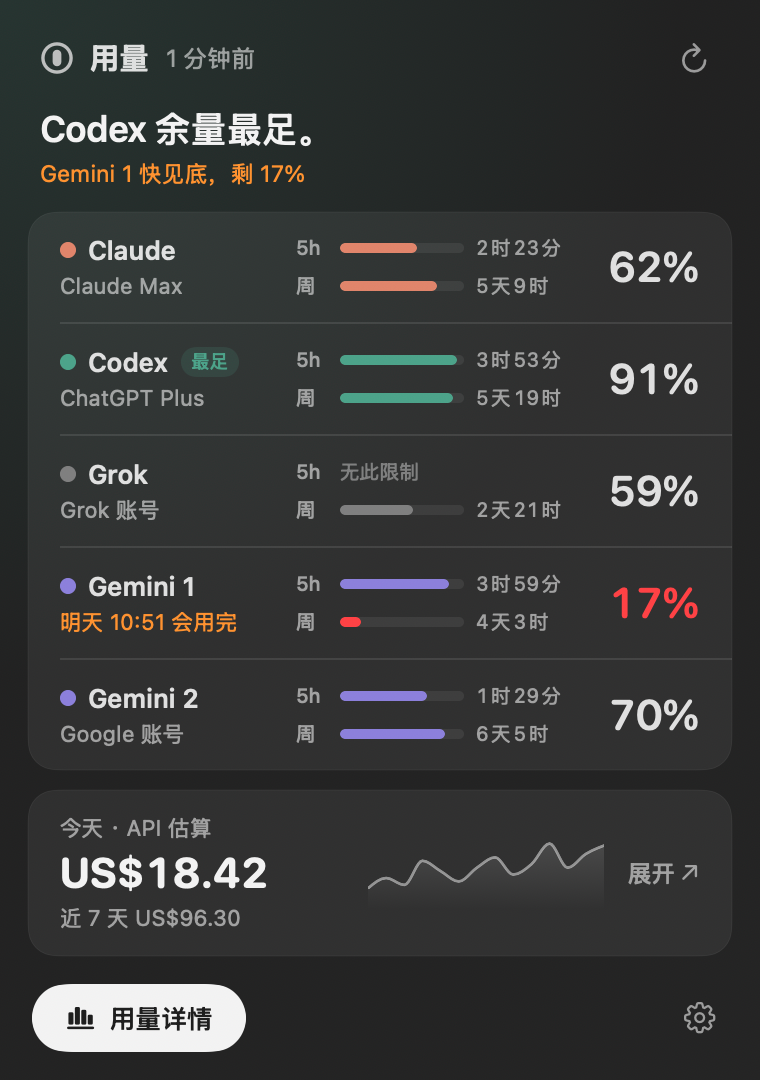
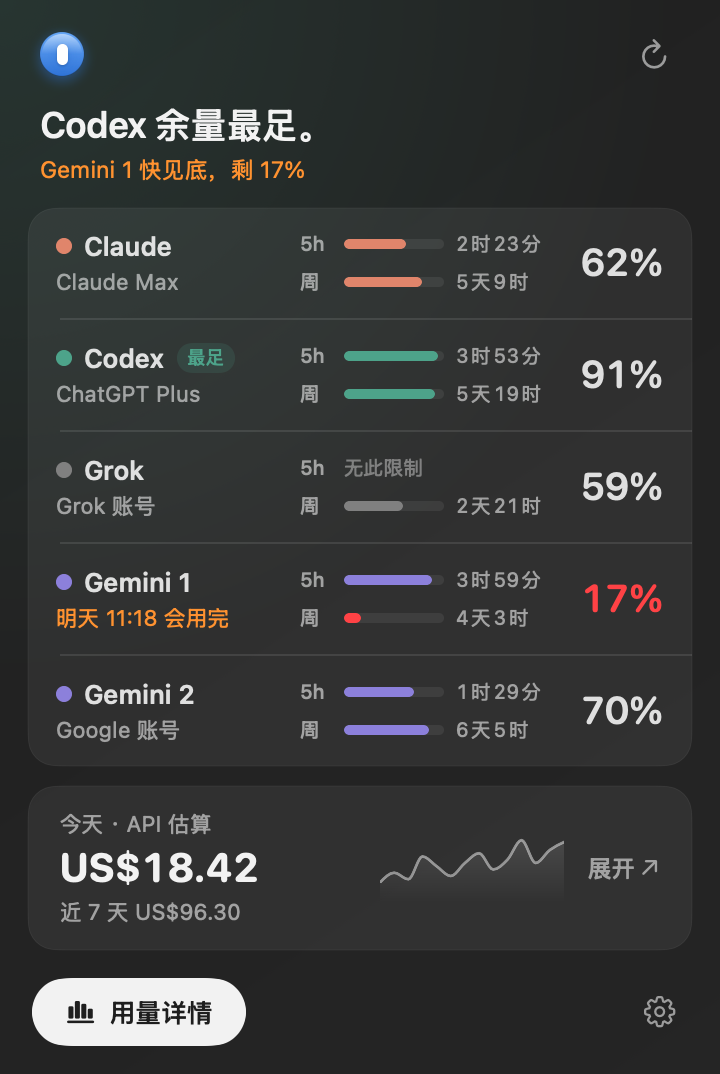
点左上角图标切换极简/正常（正常时图标立体）；花费可切成 Token；面板每行可拖动排序

diff --git a/Sources/UsageBar.swift b/Sources/UsageBar.swift
@@ -151,6 +151,7 @@ extension Animation {
     static let qPage = Animation.timingCurve(0.22, 1, 0.36, 1, duration: 0.5)
     static let qSpring = Animation.timingCurve(0.3, 1.5, 0.5, 1, duration: 0.35)
     static let qSpin = Animation.timingCurve(0.4, 0.1, 0.3, 1, duration: 0.9)
+    static let qMode = Animation.timingCurve(0.45, 0, 0.25, 1, duration: 0.42) // 简/常切换：两头都慢，不回弹，不晃眼
 }
 func motion(_ a: Animation) -> Animation? { reduceMotion ? nil : a }
 
@@ -161,7 +162,8 @@ var curSym: String { useCny ? "¥" : "US$" }
 
 // MARK: 数据与设置
 let ud = UserDefaults.standard
-struct CostSum { var today = 0.0; var week = 0.0; var daily = [Double](repeating: 0, count: 14); var ok = false }
+struct CostSum { var today = 0.0; var week = 0.0; var daily = [Double](repeating: 0, count: 14); var ok = false
+    var todayTok = 0.0; var weekTok = 0.0; var dailyTok = [Double](repeating: 0, count: 14) }
 
 final class Store: ObservableObject {
     @Published var provs: [Prov] = []
@@ -213,6 +215,13 @@ final class Store: ObservableObject {
     }
     /// 数据最旧的那家是几分钟前的
     var staleMin: Int { (visible.compactMap { $0.checked }.map { Int(Date().timeIntervalSince($0) / 60) }.max()) ?? 0 }
+    /// 花费显示成 Token：currency == 2
+    var tokenMode: Bool { currency == 2 }
+    /// 按设置显示成美元 / 人民币 / token
+    func spend(_ usd: Double, _ tok: Double, compact: Bool = false) -> String {
+        if tokenMode { return hidePrivate ? "•••" : fmtTok(tok) + (compact ? "" : " token") }
+        return money(usd, compact: compact)
+    }
     func money(_ usd: Double, compact: Bool = false) -> String {
         if hidePrivate { return curSym + "•••" }
         let v = useCny ? usd * usdToCny : usd
@@ -222,14 +231,14 @@ final class Store: ObservableObject {
     func loadCost(force: Bool = false) {
         if !force && Date().timeIntervalSince(costAt) < 120 { return }
         costAt = Date()
-        if isDemo { cost = CostSum(today: 18.42, week: 96.30, daily: [6, 9, 7, 14, 11, 8, 12, 15, 10, 13, 19, 12, 16, 18.42], ok: true); return }
+        if isDemo { let d = [6, 9, 7, 14, 11, 8, 12, 15, 10, 13, 19, 12, 16, 18.42]; cost = CostSum(today: 18.42, week: 96.30, daily: d, ok: true, todayTok: 24.6e6, weekTok: 131e6, dailyTok: d.map { $0 * 1.34e6 }); return }
         DispatchQueue.global(qos: .utility).async {
             let cal = Calendar.current, start = cal.date(byAdding: .day, value: -13, to: cal.startOfDay(for: Date()))!
             guard let reqs = loadT3Requests(since: start) else { return }
-            var days = [Double](repeating: 0, count: 14)
-            for q in reqs { let d = cal.dateComponents([.day], from: start, to: cal.startOfDay(for: q.date)).day ?? -1; if d >= 0 && d < 14 { days[d] += q.cost } }
+            var days = [Double](repeating: 0, count: 14), toks = [Double](repeating: 0, count: 14)
+            for q in reqs { let d = cal.dateComponents([.day], from: start, to: cal.startOfDay(for: q.date)).day ?? -1; if d >= 0 && d < 14 { days[d] += q.cost; toks[d] += q.tokens } }
             DispatchQueue.main.async {
-                self.cost = CostSum(today: days[13], week: days[7...].reduce(0, +), daily: days, ok: true)
+                self.cost = CostSum(today: days[13], week: days[7...].reduce(0, +), daily: days, ok: true, todayTok: toks[13], weekTok: toks[7...].reduce(0, +), dailyTok: toks)
                 if self.barMode == 3 { self.onChange?() }
             }
         }
@@ -272,7 +281,7 @@ final class Store: ObservableObject {
                     if let l = left(win) { add(num(l), l < 20 ? .systemRed : .labelColor) } else { add("–", .secondaryLabelColor) }
                 }
             }
-        case 3: add(cost.ok ? money(cost.today, compact: true) : "–")
+        case 3: add(cost.ok ? spend(cost.today, cost.todayTok, compact: true) : "–")
         default: break
         }
         return title
@@ -383,16 +392,18 @@ struct Seg: View {
 }
 /// 管理页的小分段：选中的是蓝底白字（照 Cindy）
 struct PillSeg: View {
-    let items: [String]; @Binding var sel: Int
+    let items: [String]; @Binding var sel: Int; var small = false
+    @Namespace private var ns
     var body: some View {
         HStack(spacing: 0) {
             ForEach(items.indices, id: \.self) { i in
-                Text(items[i]).font(.system(size: 12, weight: sel == i ? .semibold : .regular))
+                Text(items[i]).font(.system(size: small ? 11 : 12, weight: sel == i ? .semibold : .regular))
                     .foregroundColor(sel == i ? .white : .primary.opacity(0.75))
-                    .padding(.horizontal, 10).padding(.vertical, 5)
-                    .background(RoundedRectangle(cornerRadius: 7).fill(sel == i ? Color.accentColor : .clear))
+                    .lineLimit(1).fixedSize()
+                    .padding(.horizontal, small ? 8 : 10).padding(.vertical, small ? 3 : 5)
+                    .background { if sel == i { RoundedRectangle(cornerRadius: 7).fill(Color.accentColor).matchedGeometryEffect(id: "sel", in: ns) } } // 选中块滑过去，不是一闪
                     .contentShape(Rectangle())
-                    .onTapGesture { withAnimation(motion(.qSpring)) { sel = i } }
+                    .onTapGesture { withAnimation(motion(.qMode)) { sel = i } }
             }
         }.padding(2).background(RoundedRectangle(cornerRadius: 9).fill(Color.primary.opacity(0.07)))
     }
@@ -431,8 +442,7 @@ struct Root: View {
                 ManagePage(s: s, page: $page).transition(.move(edge: .trailing).combined(with: .opacity))
             }
         }
-        .frame(width: s.compact ? 320 : 380).clipped()
-        .animation(motion(.qPage), value: s.compact)
+        .frame(width: 360).clipped() // 两种样式同宽，切换时只变高度，不左右跳
         .background(PanelBG(color: bestColor))
         .onReceive(Timer.publish(every: 5, on: .main, in: .common).autoconnect()) { _ in s.reload() }
     }
@@ -476,16 +486,27 @@ func makeHeadline(_ ps: [Prov]) -> Headline {
 struct MainPage: View {
     @ObservedObject var s: Store; @Binding var page: Int
     @State var spins = 0.0
+    @State var dragging: String?
+    @State var reveal = 1.0      // 下面内容的显隐：1 = 拉下来，0 = 收起
+    @State var switching = false
+    @State var modeSel = -1      // 顶栏「简丨常」的选中块，点下去先滑过去，内容随后再换
     var rise: Bool { s.rise }
     var body: some View {
         let h = makeHeadline(s.visible)
         let best = s.visible.compactMap { p in effLeft(p).map { (p, $0) } }.max { $0.1 < $1.1 }?.0.file
         VStack(alignment: .leading, spacing: 0) {
+            // 顶栏：简、常两种样式一模一样，切换时完全不动
             HStack(spacing: 8) {
-                Image(nsImage: tokenIcon(17)).resizable().renderingMode(.template).frame(width: 17, height: 17)
-                Text("用量").font(.system(size: 15, weight: .bold))
-                Text(freshText).font(.system(size: 12)).foregroundColor(s.staleMin > 30 ? .orange : .secondary)
+                // 点左上角图标切换样式：极简是线框图标，正常是立体图标
+                Button {
+                    let toFull = s.compact
+                    withAnimation(motion(.qSpring)) { modeSel = toFull ? 1 : 0 }
+                    switchMode()
+                } label: { ModeIcon(raised: modeSel < 0 ? !s.compact : modeSel == 1).contentShape(Circle()) }
+                .buttonStyle(PressStyle(scale: 0.86)).modifier(Lift(by: 1))
+                .help(s.compact ? "点一下：展开成正常样式" : "点一下：收成极简样式")
                 Spacer()
+                if s.staleMin > 30 { Text(freshText).font(.system(size: 12)).foregroundColor(.orange) } // 数据旧了才露出
                 Button {
                     withAnimation(motion(.qSpin)) { spins += 1 }
                     s.reload(); s.loadCost(force: true)
@@ -494,37 +515,64 @@ struct MainPage: View {
                     Image(systemName: "arrow.clockwise").font(.system(size: 14, weight: .medium)).foregroundColor(.secondary)
                         .rotationEffect(.degrees(spins * 360)).frame(width: 26, height: 26).contentShape(Rectangle())
                 }.buttonStyle(PressStyle(scale: 0.85)).help(s.staleMin > 5 ? "重新读取，并在后台打开 T3 Code 刷新额度" : "重新读取")
-            }.padding(.horizontal, 20).padding(.top, 16)
+            }.padding(.horizontal, 20).padding(.top, 14).padding(.bottom, 10)
 
-            VStack(alignment: .leading, spacing: 5) {
-                Text(h.main).font(.system(size: s.compact ? 16 : 18, weight: .semibold)).foregroundColor(inkStrong)
-                    .contentTransition(.opacity).animation(motion(.qPage), value: h.main)
-                if !s.compact, let sub = h.sub { Text(sub).font(.system(size: 11.5)).foregroundColor(h.warn ? .orange : .secondary).lineLimit(2) }
-            }.padding(.horizontal, 20).padding(.top, s.compact ? 10 : 12).padding(.bottom, s.compact ? 10 : 12)
-
-            Tile {
-                if s.visible.isEmpty { Text("在「管理」里打开要显示的几家").font(.system(size: 12)).foregroundColor(.secondary).padding(16) }
-                ForEach(Array(s.visible.enumerated()), id: \.element.id) { i, p in
-                    if i > 0 { Divider().padding(.leading, 16) }
-                    if s.compact { SlimRow(p: p, i: i, rise: rise, best: p.file == best, showUsed: s.showUsed) }
-                    else { ProvRow(p: p, i: i, rise: rise, best: p.file == best, showUsed: s.showUsed) }
+            // 下面的内容：切换样式时先收上去，换好再拉下来
+            VStack(alignment: .leading, spacing: 0) {
+                if !s.compact {
+                    VStack(alignment: .leading, spacing: 5) {
+                        Text(h.main).font(.system(size: 18, weight: .semibold)).foregroundColor(inkStrong)
+                        if let sub = h.sub { Text(sub).font(.system(size: 11.5)).foregroundColor(h.warn ? .orange : .secondary).lineLimit(2) }
+                    }.padding(.horizontal, 20).padding(.top, 2).padding(.bottom, 12)
                 }
-            }.padding(.horizontal, 14)
 
-            if s.compact { SlimCost(s: s).padding(.horizontal, 14).padding(.top, 8) }
-            else { CostTile(s: s).padding(.horizontal, 14).padding(.top, 10) }
+                Tile {
+                    if s.visible.isEmpty { Text("在「管理」里打开要显示的几家").font(.system(size: 12)).foregroundColor(.secondary).padding(16) }
+                    ForEach(Array(s.visible.enumerated()), id: \.element.id) { i, p in
+                        if i > 0 { Divider().padding(.leading, 16) }
+                        // 每一行都能拖动换位置，松手后顺序记住（和管理页是同一份顺序）
+                        Group {
+                            if s.compact { SlimRow(p: p, i: i, rise: rise, best: p.file == best, showUsed: s.showUsed) }
+                            else { ProvRow(p: p, i: i, rise: rise, best: p.file == best, showUsed: s.showUsed) }
+                        }
+                        .modifier(Reorderable(file: p.file, dragging: $dragging, s: s, dim: 0.35))
+                    }
+                }
+                .padding(.horizontal, 14)
 
-            HStack(spacing: 10) {
-                Button { s.openDetail?() } label: {
-                    HStack(spacing: 6) { Image(systemName: "chart.bar.xaxis").font(.system(size: 12, weight: .semibold)); Text("用量详情").font(.system(size: 13, weight: .semibold)) }
-                        .foregroundColor(Color(nsColor: .windowBackgroundColor)).padding(.horizontal, 16).padding(.vertical, 9)
-                        .background(Capsule().fill(inkStrong))
-                }.buttonStyle(PressStyle(scale: 0.97))
-                Spacer()
-                Button { withAnimation(motion(.qPage)) { page = 1 } } label: {
-                    Image(systemName: "gearshape").font(.system(size: 15)).foregroundColor(.secondary).frame(width: 28, height: 28).contentShape(Rectangle())
-                }.buttonStyle(PressStyle(scale: 0.88)).help("管理")
-            }.padding(.horizontal, 16).padding(.top, 14).padding(.bottom, 14)
+                if s.compact { SlimCost(s: s).padding(.horizontal, 14).padding(.top, 10) }
+                else { CostTile(s: s).padding(.horizontal, 14).padding(.top, 10) }
+
+                HStack(spacing: 10) {
+                    Button { s.openDetail?() } label: {
+                        HStack(spacing: 6) { Image(systemName: "chart.bar.xaxis").font(.system(size: 12, weight: .semibold)); Text("用量详情").font(.system(size: 13, weight: .semibold)) }
+                            .foregroundColor(Color(nsColor: .windowBackgroundColor)).padding(.horizontal, 16).padding(.vertical, 9)
+                            .background(Capsule().fill(inkStrong))
+                    }.buttonStyle(PressStyle(scale: 0.97))
+                    Spacer()
+                    Button { withAnimation(motion(.qPage)) { page = 1 } } label: {
+                        Image(systemName: "gearshape").font(.system(size: 15)).foregroundColor(.secondary).frame(width: 28, height: 28).contentShape(Rectangle())
+                    }.buttonStyle(PressStyle(scale: 0.88)).help("管理")
+                }.padding(.horizontal, 16).padding(.top, 14).padding(.bottom, 14)
+            }
+            .opacity(reveal)
+            .offset(y: -16 * (1 - reveal))
+            .scaleEffect(x: 1, y: 0.97 + 0.03 * reveal, anchor: .top)
+        }
+    }
+    /// 换样式：先把下面收上去（0.16 秒），趁看不见时换内容、面板改高度，再慢慢拉下来（0.5 秒）
+    func switchMode() {
+        if switching { return }
+        if reduceMotion { s.compact.toggle(); modeSel = -1; return }
+        switching = true
+        withAnimation(.easeIn(duration: 0.16)) { reveal = 0 }
+        DispatchQueue.main.asyncAfter(deadline: .now() + 0.17) {
+            var t = Transaction(); t.disablesAnimations = true
+            withTransaction(t) { s.compact.toggle() }
+            DispatchQueue.main.asyncAfter(deadline: .now() + 0.06) {
+                withAnimation(.timingCurve(0.22, 1, 0.36, 1, duration: 0.5)) { reveal = 1 }
+                DispatchQueue.main.asyncAfter(deadline: .now() + 0.5) { switching = false; modeSel = -1 }
+            }
         }
     }
     var freshText: String {
@@ -546,24 +594,24 @@ struct ProvRow: View {
             VStack(alignment: .leading, spacing: 3) {
                 HStack(spacing: 6) {
                     Circle().fill(provColor(p)).frame(width: 8, height: 8)
-                    Text(shown(p)).font(.system(size: 13, weight: .semibold)).lineLimit(1)
-                    if best { Text("最足").font(.system(size: 9.5, weight: .semibold)).foregroundColor(provColor(p)).padding(.horizontal, 5).padding(.vertical, 1.5).background(Capsule().fill(provColor(p).opacity(0.15))) }
+                    Text(shown(p)).font(.system(size: 13, weight: .semibold)).lineLimit(1).fixedSize()
+                    if best { Text("最足").fixedSize().font(.system(size: 9.5, weight: .semibold)).foregroundColor(provColor(p)).padding(.horizontal, 5).padding(.vertical, 1.5).background(Capsule().fill(provColor(p).opacity(0.15))) }
                 }
-                Text(subline.0).font(.system(size: 11)).foregroundColor(subline.1).lineLimit(1)
-            }
+                Text(subline.0).font(.system(size: 11)).foregroundColor(subline.1).lineLimit(1).fixedSize()
+            }.layoutPriority(1)
             Spacer(minLength: 4)
             if p.wins.isEmpty { Text("没读到").font(.system(size: 12)).foregroundColor(.secondary) }
             else {
                 VStack(alignment: .leading, spacing: 6) { mini("5h", a, delay); mini("周", b, delay + 0.03) }
             }
             Text(eff == nil ? "–" : "\(showUsed ? 100 - shownEff : shownEff)%")
-                .font(.system(size: 21, weight: .semibold, design: .rounded)).monospacedDigit()
+                .font(.system(size: 19, weight: .semibold, design: .rounded)).monospacedDigit()
                 .foregroundColor(levelColor(eff)).contentTransition(.numericText(value: Double(shownEff)))
                 .animation(motion(Animation.qRise.delay(rise ? delay : 0)), value: rise)
                 .animation(motion(.qRise), value: eff)
-                .frame(width: 56, alignment: .trailing)
+                .frame(width: 50, alignment: .trailing)
         }
-        .padding(.horizontal, 16).padding(.vertical, 11)
+        .padding(.horizontal, 14).padding(.vertical, 11)
         .background(Color.primary.opacity(hover ? 0.035 : 0))
         .contentShape(Rectangle())
         .onHover { h in withAnimation(motion(.easeOut(duration: 0.2))) { hover = h } }
@@ -582,15 +630,34 @@ struct ProvRow: View {
                 Bar(pct: rise ? l : 0, color: barTint(l, p), h: 5, glow: best && l == effLeft(p))
                     .animation(motion(Animation.qRise.delay(rise ? delay : 0)), value: rise)
                     .animation(motion(.qRise), value: l)
-                    .frame(width: 62)
-                Text(w.resets.map { shortCountdown($0) } ?? "未计时").font(.system(size: 10)).monospacedDigit().foregroundColor(.secondary).frame(width: 46, alignment: .leading)
+                    .frame(width: 50)
+                Text(w.resets.map { shortCountdown($0) } ?? "未计时").font(.system(size: 10)).monospacedDigit().foregroundColor(.secondary).frame(width: 44, alignment: .leading)
             } else if w != nil {
-                Bar(pct: 0, color: .clear, h: 5).frame(width: 62)
-                Text("较旧").font(.system(size: 10)).foregroundColor(.orange).frame(width: 46, alignment: .leading)
+                Bar(pct: 0, color: .clear, h: 5).frame(width: 50)
+                Text("较旧").font(.system(size: 10)).foregroundColor(.orange).frame(width: 44, alignment: .leading)
             } else {
-                Text("无此限制").font(.system(size: 10)).foregroundColor(.secondary.opacity(0.7)).frame(width: 114, alignment: .leading)
+                Text("无此限制").font(.system(size: 10)).foregroundColor(.secondary.opacity(0.7)).frame(width: 100, alignment: .leading)
             }
         }.help(w.map { niceLabel($0.label) + "：" + (left($0).map { "剩 \($0)%，" } ?? "") + resetText($0.resets) } ?? "")
+    }
+}
+
+/// 左上角的样式图标：极简 = 线框（和菜单栏图标一样），正常 = 立体（蓝色渐变、高光、投影）
+struct ModeIcon: View {
+    let raised: Bool
+    var body: some View {
+        let blue = Color(red: 0.18, green: 0.45, blue: 0.84)
+        ZStack {
+            Circle()
+                .fill(LinearGradient(colors: [Color(red: 0.40, green: 0.66, blue: 0.97), blue], startPoint: .top, endPoint: .bottom))
+                .overlay(Circle().fill(LinearGradient(colors: [.white.opacity(0.5), .clear], startPoint: .top, endPoint: .center)).padding(1.2))
+                .overlay(Circle().stroke(Color.black.opacity(0.12), lineWidth: 0.5))
+                .overlay(Capsule().fill(.white).frame(width: 5.5, height: 10.5).shadow(color: .black.opacity(0.22), radius: 0.6, y: 0.6))
+                .shadow(color: blue.opacity(0.45), radius: 3, y: 2)
+                .opacity(raised ? 1 : 0).scaleEffect(raised ? 1 : 0.55)
+            Image(nsImage: tokenIcon(18)).resizable().renderingMode(.template).frame(width: 18, height: 18)
+                .opacity(raised ? 0 : 1).scaleEffect(raised ? 1.25 : 1)
+        }.frame(width: 22, height: 22)
     }
 }
 
@@ -637,8 +704,8 @@ struct SlimCost: View {
         Button { s.openDetail?() } label: {
             HStack(spacing: 6) {
                 Text("今天").foregroundColor(.secondary)
-                Text(s.cost.ok ? s.money(s.cost.today) : "–").fontWeight(.semibold).monospacedDigit()
-                Text("· 近 7 天 " + (s.cost.ok ? s.money(s.cost.week) : "–")).foregroundColor(.secondary).monospacedDigit()
+                Text(s.cost.ok ? s.spend(s.cost.today, s.cost.todayTok) : "–").fontWeight(.semibold).monospacedDigit()
+                Text("· 近 7 天 " + (s.cost.ok ? s.spend(s.cost.week, s.cost.weekTok) : "–")).foregroundColor(.secondary).monospacedDigit()
                 Spacer()
                 Image(systemName: "arrow.up.right").font(.system(size: 10, weight: .semibold)).foregroundColor(.secondary)
             }.font(.system(size: 12)).padding(.horizontal, 14).padding(.vertical, 10)
@@ -657,13 +724,13 @@ struct CostTile: View {
         Button { s.openDetail?() } label: {
             HStack(alignment: .center, spacing: 12) {
                 VStack(alignment: .leading, spacing: 3) {
-                    Text("今天 · API 估算").font(.system(size: 11)).foregroundColor(.secondary)
-                    Text(s.cost.ok ? s.money(s.cost.today) : "–").font(.system(size: 21, weight: .bold, design: .rounded)).monospacedDigit().foregroundColor(inkStrong)
+                    Text(s.tokenMode ? "今天用的 token" : "今天 · API 估算").font(.system(size: 11)).foregroundColor(.secondary).lineLimit(1).fixedSize()
+                    Text(s.cost.ok ? s.spend(s.cost.today, s.cost.todayTok, compact: s.tokenMode) : "–").font(.system(size: 20, weight: .bold, design: .rounded)).monospacedDigit().foregroundColor(inkStrong).lineLimit(1).fixedSize()
                         .contentTransition(.numericText(value: s.cost.today)).animation(motion(.qRise), value: s.cost.today)
-                    Text(s.cost.ok ? "近 7 天 " + s.money(s.cost.week) : "读取中…").font(.system(size: 11)).foregroundColor(.secondary)
+                    Text(s.cost.ok ? "近 7 天 " + s.spend(s.cost.week, s.cost.weekTok) : "读取中…").font(.system(size: 11)).foregroundColor(.secondary).lineLimit(1).fixedSize()
                 }
                 Spacer(minLength: 6)
-                Spark(vals: s.cost.daily).frame(width: 118, height: 36).opacity(s.hidePrivate ? 0.25 : 1)
+                Spark(vals: s.tokenMode ? s.cost.dailyTok : s.cost.daily).frame(width: 92, height: 34).opacity(s.hidePrivate ? 0.25 : 1)
                 HStack(spacing: 2) { Text("展开").font(.system(size: 12, weight: .medium)); Image(systemName: "arrow.up.right").font(.system(size: 10, weight: .semibold)).offset(x: hover ? 2 : 0) }
                     .foregroundColor(.secondary)
             }.padding(.horizontal, 16).padding(.vertical, 12)
@@ -711,9 +778,7 @@ struct ManagePage: View {
                         ForEach(Array(s.provs.enumerated()), id: \.element.id) { i, p in
                             if i > 0 { Divider().padding(.leading, 56) }
                             sourceRow(p)
-                                .opacity(dragging == p.file ? 0.4 : 1)
-                                .onDrag { dragging = p.file; return NSItemProvider(object: p.file as NSString) }
-                                .onDrop(of: [UTType.text], delegate: ReorderDrop(target: p.file, dragging: $dragging, s: s))
+                                .modifier(Reorderable(file: p.file, dragging: $dragging, s: s, dim: 0.4))
                         }
                     }
                     Text("拖动左边的三道杠调顺序，面板和菜单栏都按这个顺序。").font(.system(size: 11)).foregroundColor(.secondary).padding(.horizontal, 6).padding(.top, 6)
@@ -743,7 +808,7 @@ struct ManagePage: View {
                         Divider().padding(.leading, 16)
                         row("数字含义") { PillSeg(items: ["剩余", "已用"], sel: Binding(get: { s.showUsed ? 1 : 0 }, set: { s.showUsed = $0 == 1 })) }
                         Divider().padding(.leading, 16)
-                        row("花费币种", useCny ? "按 1 美元 ≈ \(String(format: "%.1f", usdToCny)) 元估" : nil) { PillSeg(items: ["USD", "CNY"], sel: $s.currency) }
+                        row("花费显示", s.currency == 1 ? "按 1 美元 ≈ \(String(format: "%.1f", usdToCny)) 元估" : (s.tokenMode ? "用了多少 token（含缓存读写）" : nil)) { PillSeg(items: ["USD", "CNY", "Token"], sel: $s.currency) }
                         Divider().padding(.leading, 16)
                         row("刷新间隔") { PillSeg(items: ["15秒", "30秒", "1分", "5分"], sel: Binding(get: { [15.0, 30, 60, 300].firstIndex(of: s.interval) ?? 1 }, set: { s.interval = [15.0, 30, 60, 300][$0] })) }
                         Divider().padding(.leading, 16)
@@ -785,6 +850,17 @@ struct ManagePage: View {
                 withAnimation(motion(.qSpring)) { if v { s.hidden.removeAll { $0 == p.file } } else if !s.hidden.contains(p.file) { s.hidden.append(p.file) } } }))
                 .toggleStyle(.switch).labelsHidden()
         }.padding(.horizontal, 12).padding(.vertical, 9).contentShape(Rectangle())
+    }
+}
+/// 拖动换位置：主面板和管理页共用；离屏截图时不挂拖动（渲染器画不出来）
+struct Reorderable: ViewModifier {
+    let file: String; @Binding var dragging: String?; let s: Store; var dim = 0.4
+    func body(content: Content) -> some View {
+        if isSnapshot { content } else {
+            content.opacity(dragging == file ? dim : 1)
+                .onDrag { dragging = file; return NSItemProvider(object: file as NSString) }
+                .onDrop(of: [UTType.text], delegate: ReorderDrop(target: file, dragging: $dragging, s: s))
+        }
     }
 }
 struct ReorderDrop: DropDelegate {

diff --git a/README.md b/README.md
@@ -23,11 +23,12 @@
 - **一句话结论**：顶上直接写「Codex 余量最足。」，快见底、会提前用完的另起一行提醒。
 - **能用余量**：每家都有 5 小时和 1 周两个限制，哪个先到就卡在哪个，所以大数字取两者里小的那个。
 - **用完预测**：按目前的使用速度算，会在重置前用完的，直接写出「明天 10:51 会用完」。
-- **两种样式**：极简模式每家只占一行；正常模式显示两个窗口、倒计时和套餐名。
-- **花费估算**：今天、近 7 天按 API 价格估算的花费，附 14 天走势；点开有按模型、按天的明细窗口。
+- **两种样式**：点左上角的图标就换（极简是线框图标，正常是立体图标），顶栏不动，下面的内容先收上去、再拉下来。简模式每家只占一行；常模式加上结论句、两个窗口、倒计时和套餐名。
+- **拖动排序**：面板里每一行都能直接拖动换位置，松手后一直记住。
+- **花费 / Token**：今天、近 7 天的花费（按 API 价估算，美元或人民币），也可以切成用了多少 token；附 14 天走势，点开有按模型、按天的明细窗口。
 - **菜单栏四种显示**：仅图标 / 最低余量 / 每家都显示 / 今日花费。
 - **快见底通知**：任一窗口低于 20% 时提醒一次，每个重置周期只提醒一次。
-- **管理页**：拖动排序、按家显示或隐藏、隐藏个人信息（截图用）、剩余或已用、美元或人民币、刷新间隔、开机启动。
+- **管理页**：拖动排序、按家显示或隐藏、隐藏个人信息（截图用）、剩余或已用、美元 / 人民币 / Token、刷新间隔、开机启动。
 - **动效**：打开时进度条依次涨起、数字滚动、刷新按钮转一圈；系统打开「减少动态效果」时全部关闭。
 - 浅色、深色都适配。
 
@@ -90,7 +91,7 @@
 **T3 用量栏 (T3UsageBar)** is a tiny macOS menu bar app that shows how much quota you have left on Claude, Codex, Grok and Gemini, using the numbers [T3 Code](https://t3.codes) already caches on your Mac.
 
 - One-line verdict at the top ("Codex has the most left"), usable quota = the smaller of the 5-hour and weekly windows, and a "will run out at …" forecast based on your current pace.
-- Minimal and full layouts, today / 7-day API-cost estimate with a sparkline, four menu bar modes, low-quota notifications, drag-to-reorder sources, light & dark mode.
+- Minimal and full layouts, today / 7-day API-cost estimate with a sparkline, four menu bar modes, low-quota notifications, drag any row to reorder (remembered), light & dark mode.
 - Offline and local-only: reads `~/.t3` caches, never touches credentials.
 
 **Install:** download the zip from [Releases](../../releases), move the app to Applications, then right-click → Open the first time (the app is ad-hoc signed, not notarized). Requires macOS 14+ (Intel or Apple silicon) and T3 Code. UI is in Chinese.
